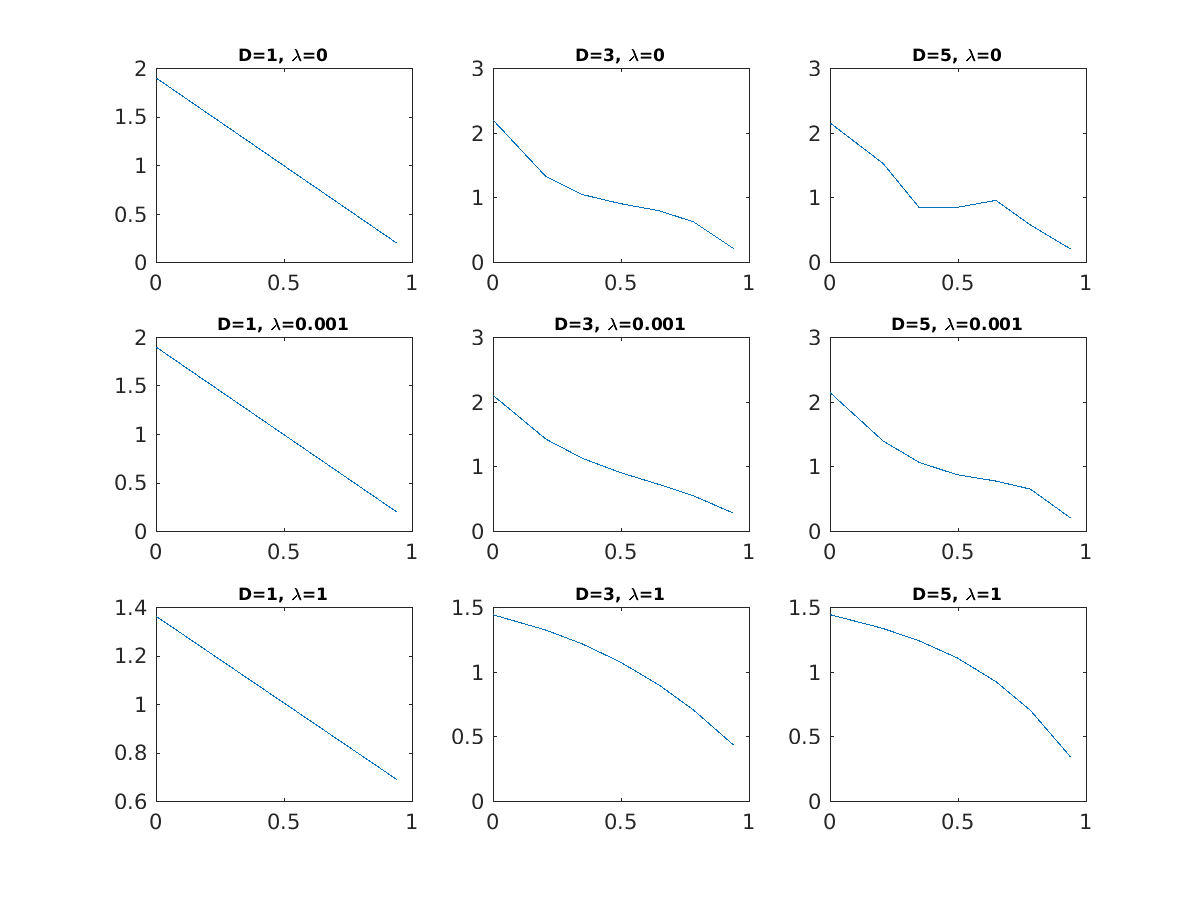
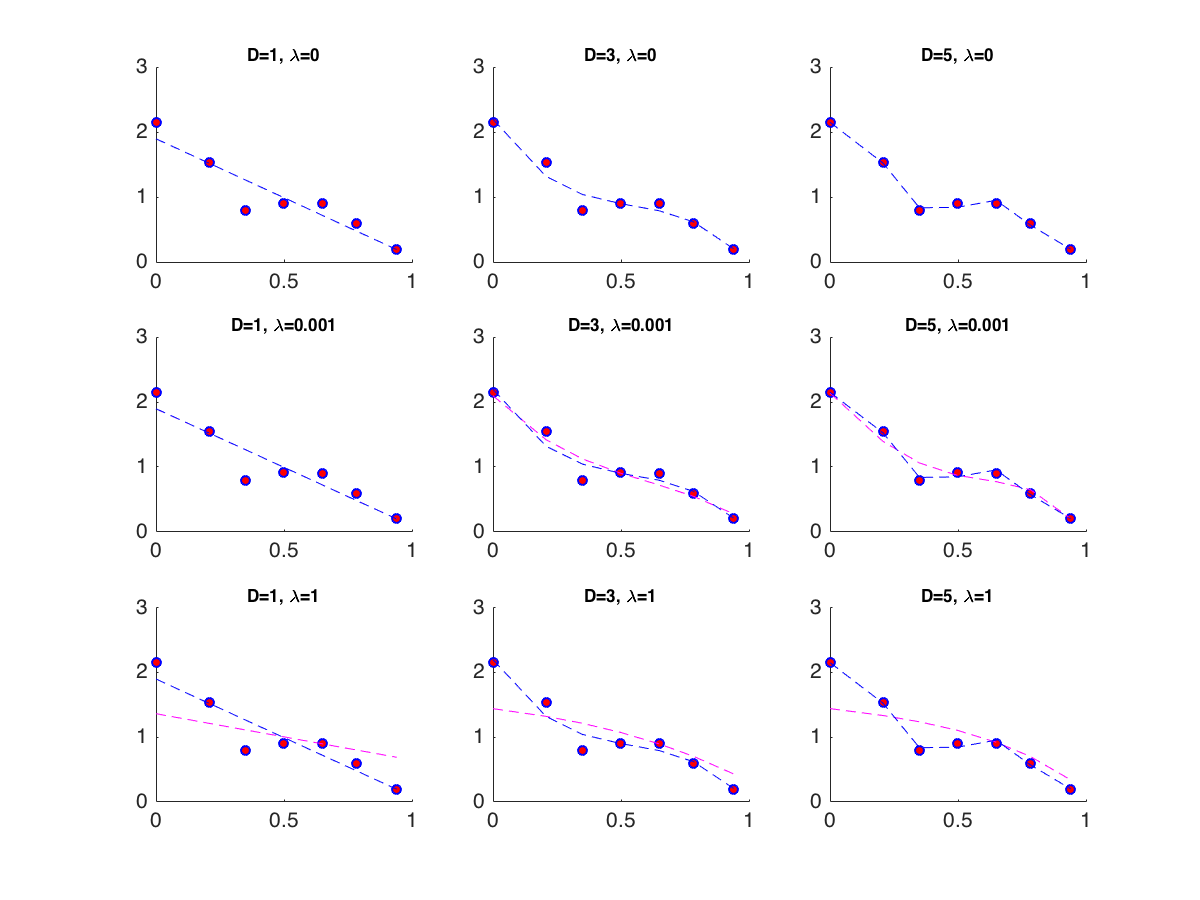
Fixing some problems.

diff --git a/hw3/hw3.m b/hw3/hw3.m
@@ -4,7 +4,7 @@
 clear;
 close all;
 x = [3 -2 5 1 0];
-x1 = length(x)
+x1 = length(x)-1
 x2 = 3+2+5+1+0
 x3 = 9+4+25+1
 x4 = max(x)
@@ -25,10 +25,10 @@ x4 = max(x)
 %===========================================================================
 % question 4
 %===========================================================================
-% Line going up means that a specific coefficient has influence on the cost
-% function, the more influence it exerts, the higher the line. Line going
-% down means that a specific coefficient has less influence on the cost
-% function, the less influence it exerts, the lower the line.
+% Line going up means that a specific coefficient has postive correlation
+% with the cost function, the more influence it exerts, the higher the line. Line going
+% down means that a specific coefficient has negative correlation with the cost
+% function
 
 
 %===========================================================================
@@ -72,7 +72,7 @@ y = [2.150 1.541 0.790 0.909 0.901 0.593 0.198]' ;
 % 5th order linear regression
 lambda = 0.001;
 model = [ones(length(x),1) x x.^2 x.^3 x.^4 x.^5];
-%theta = ((model'*model)\model')*y;
+theta = ((model'*model)\model')*y;
 theta2 = regularNormalEquation(model,y,lambda);
 avgSqErr = sum((y-model*theta2).^2)./length(y);
 str = strcat('5th order regularized fit, \lambda=', num2str(lambda), ', avgSqErr=', num2str(avgSqErr,'%.5f'));
@@ -80,11 +80,11 @@ str = strcat('5th order regularized fit, \lambda=', num2str(lambda), ', avgSqErr
 figure
 graphX = (0:0.001:1)';
 M1 = [ones(length(graphX),1) graphX graphX.^2 graphX.^3 graphX.^4 graphX.^5];
-%graphY1 = M1*theta;
+graphY1 = M1*theta;
 graphY2 = M1*theta2;
 scatter(x, y, 60,'MarkerEdgeColor','b','MarkerFaceColor','r')
 hold on
-%plot(graphX, graphY1,'b--','MarkerSize',10,'LineWidth',3)
+plot(graphX, graphY1,'b--','MarkerSize',10,'LineWidth',3)
 plot(graphX, graphY2,'m--','MarkerSize',10,'LineWidth',3)
 % labels
 title(str,'fontsize',14)
@@ -120,7 +120,11 @@ for lam = lambda
     str = strcat('D=', num2str(d), ', \lambda=', num2str(lam));
     subplot(3,3,index)
     theta = regularNormalEquation(models{count},y,lam);
-    plot(x,models{count}*theta)
+    theta2 = ((models{count}'*models{count})\models{count}')*y;
+    scatter(x, y, 20,'MarkerEdgeColor','b','MarkerFaceColor','r')
+    hold on
+    plot(x,models{count}*theta,'m--')
+    plot(x,models{count}*theta2,'b--')
     title(str,'fontsize',8)
   end
 end
@@ -154,8 +158,11 @@ plot(xtest, ytest, 'ro', 'MarkerSize', 10,'LineWidth',3,'markerfacecolor','m','m
 grid on; legend('train','test');
 
 model = [ones(length(x),1) x x.^2 x.^3];
-[theta, Stats] = lasso(model,y,'CV',2);
+[theta, Stats] = lasso(model,y,'CV',2)
 lassoPlot(theta, Stats, 'PLotType','CV')
+
+% you could use less regularization because looking at the graph,
+% the MSE decreases as lambda decreases.
 
 
 
@@ -180,6 +187,7 @@ lambda=1;
  
 %Run Compute Cost 
 disp(computeCostReg(Xdata,y,theta, lambda))
+
 
 
 
